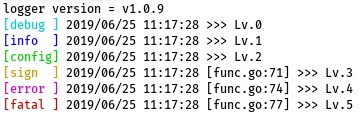
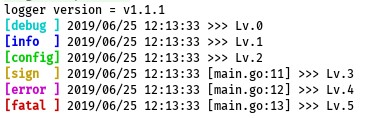
v1.1.1

Changed region(s): [[0.0, 0.0, 0.967, 0.9661], [0.8764, 0.5593, 0.9066, 0.5847]]

diff --git a/logger.go b/logger.go
@@ -6,11 +6,10 @@ import (
 	"os"
 	"path"
 	"runtime"
-	"strings"
 	"sync"
 )
 
-const version = "v1.1.0"
+const version = "v1.1.1"
 
 const LOG_PREFIX = "LOGGER "
 const LOG_SIGN = ">>> "
@@ -85,20 +84,14 @@ func (this *Logger) print(lv int, sign string, v ...interface{}) {
 
 // 打印文件和所在行
 func printLine(s string) string {
-	index := 2
-	for {
-		_, file, line, ok := runtime.Caller(index)
-		if !ok {
-			break
-		}
-		if _logger.Abs == 0 {
-			file = path.Base(file)
-		}
-		if strings.LastIndex(file, "logger.go") == -1 {
-			s = fmt.Sprintf("[%s:%d] %s", file, line, s)
-			break
-		}
-		index += 1
+	index := 3
+	_, file, line, ok := runtime.Caller(index)
+	if !ok {
+		return s
 	}
+	if _logger.Abs == 0 {
+		file = path.Base(file)
+	}
+	s = fmt.Sprintf("[%s:%d] %s", file, line, s)
 	return s
 }
